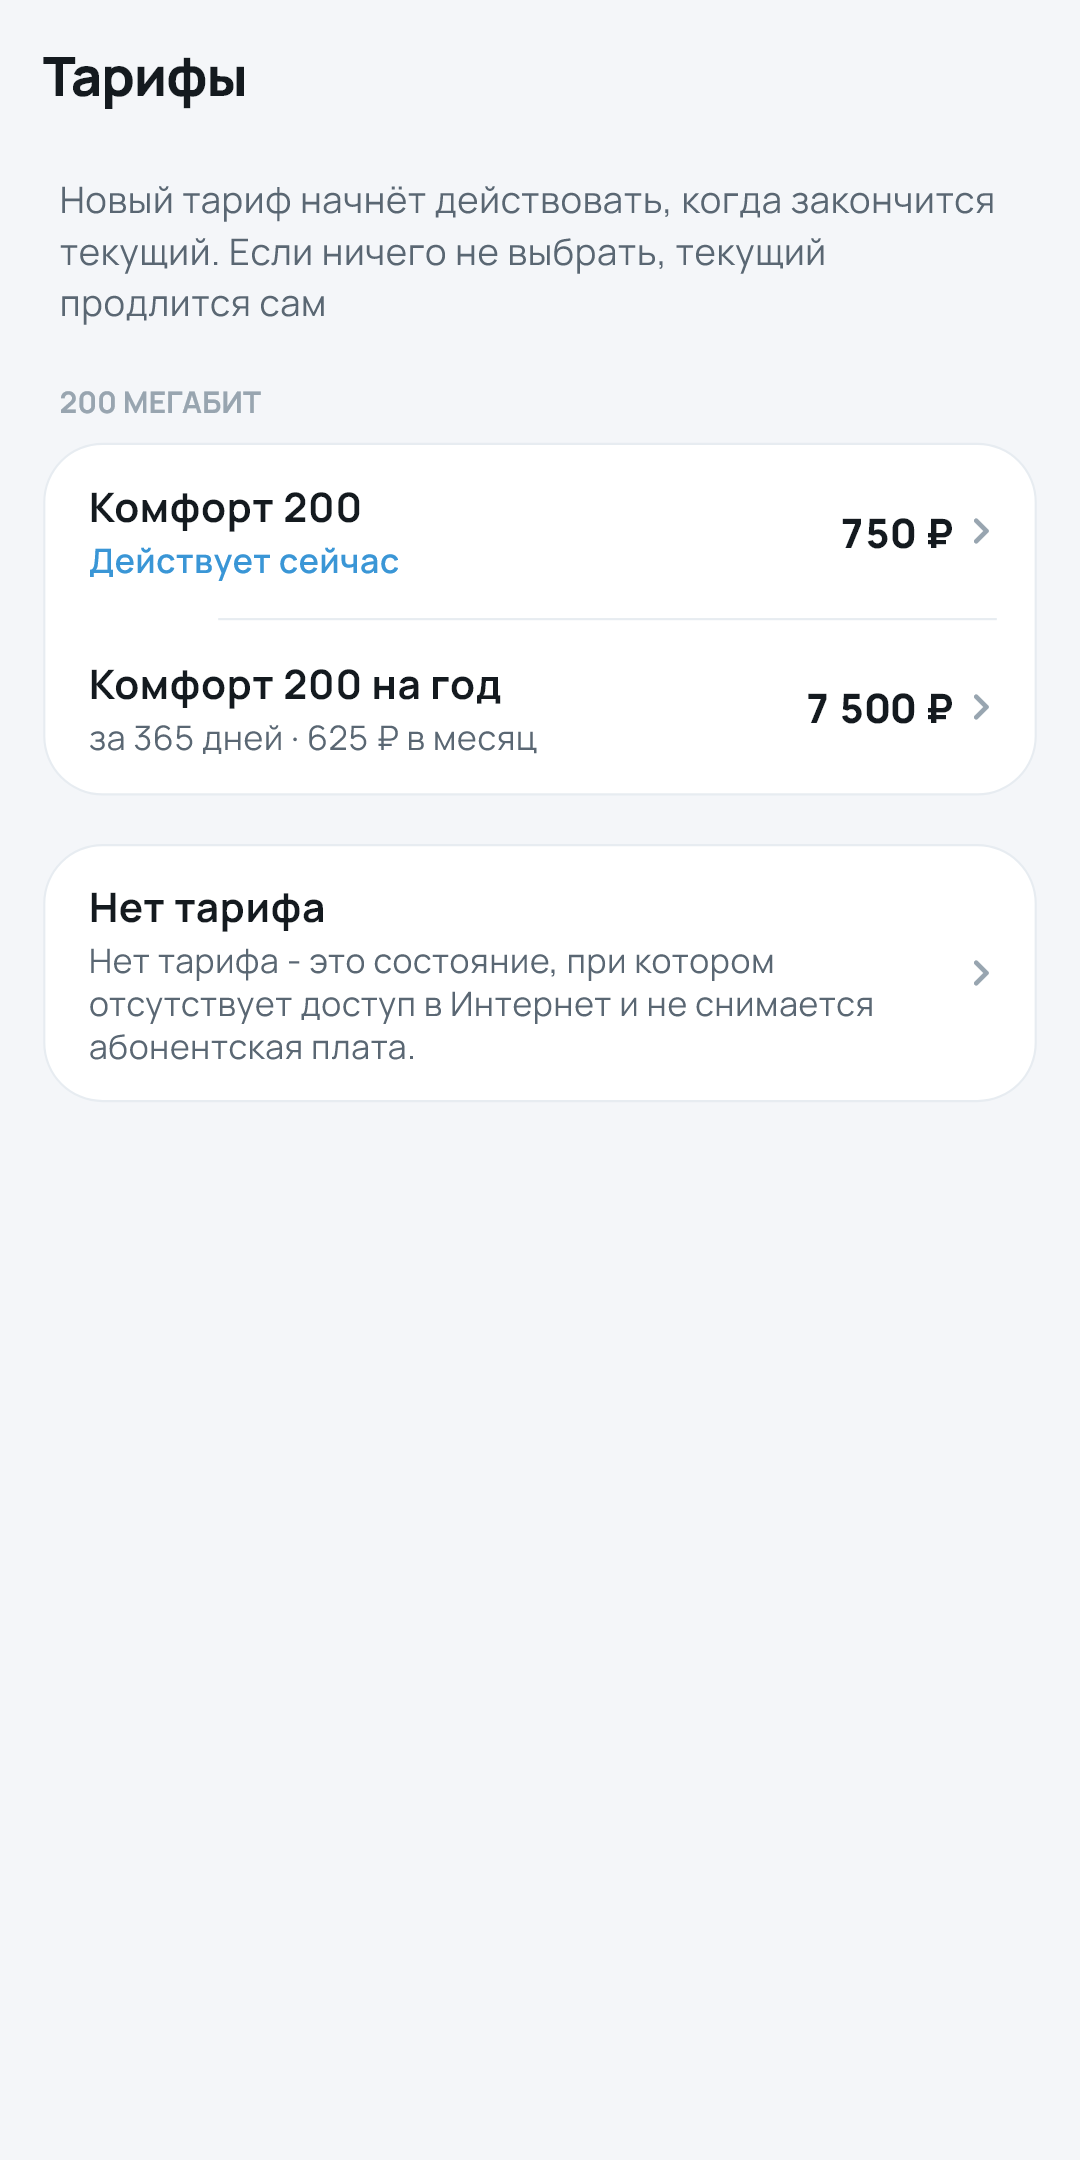
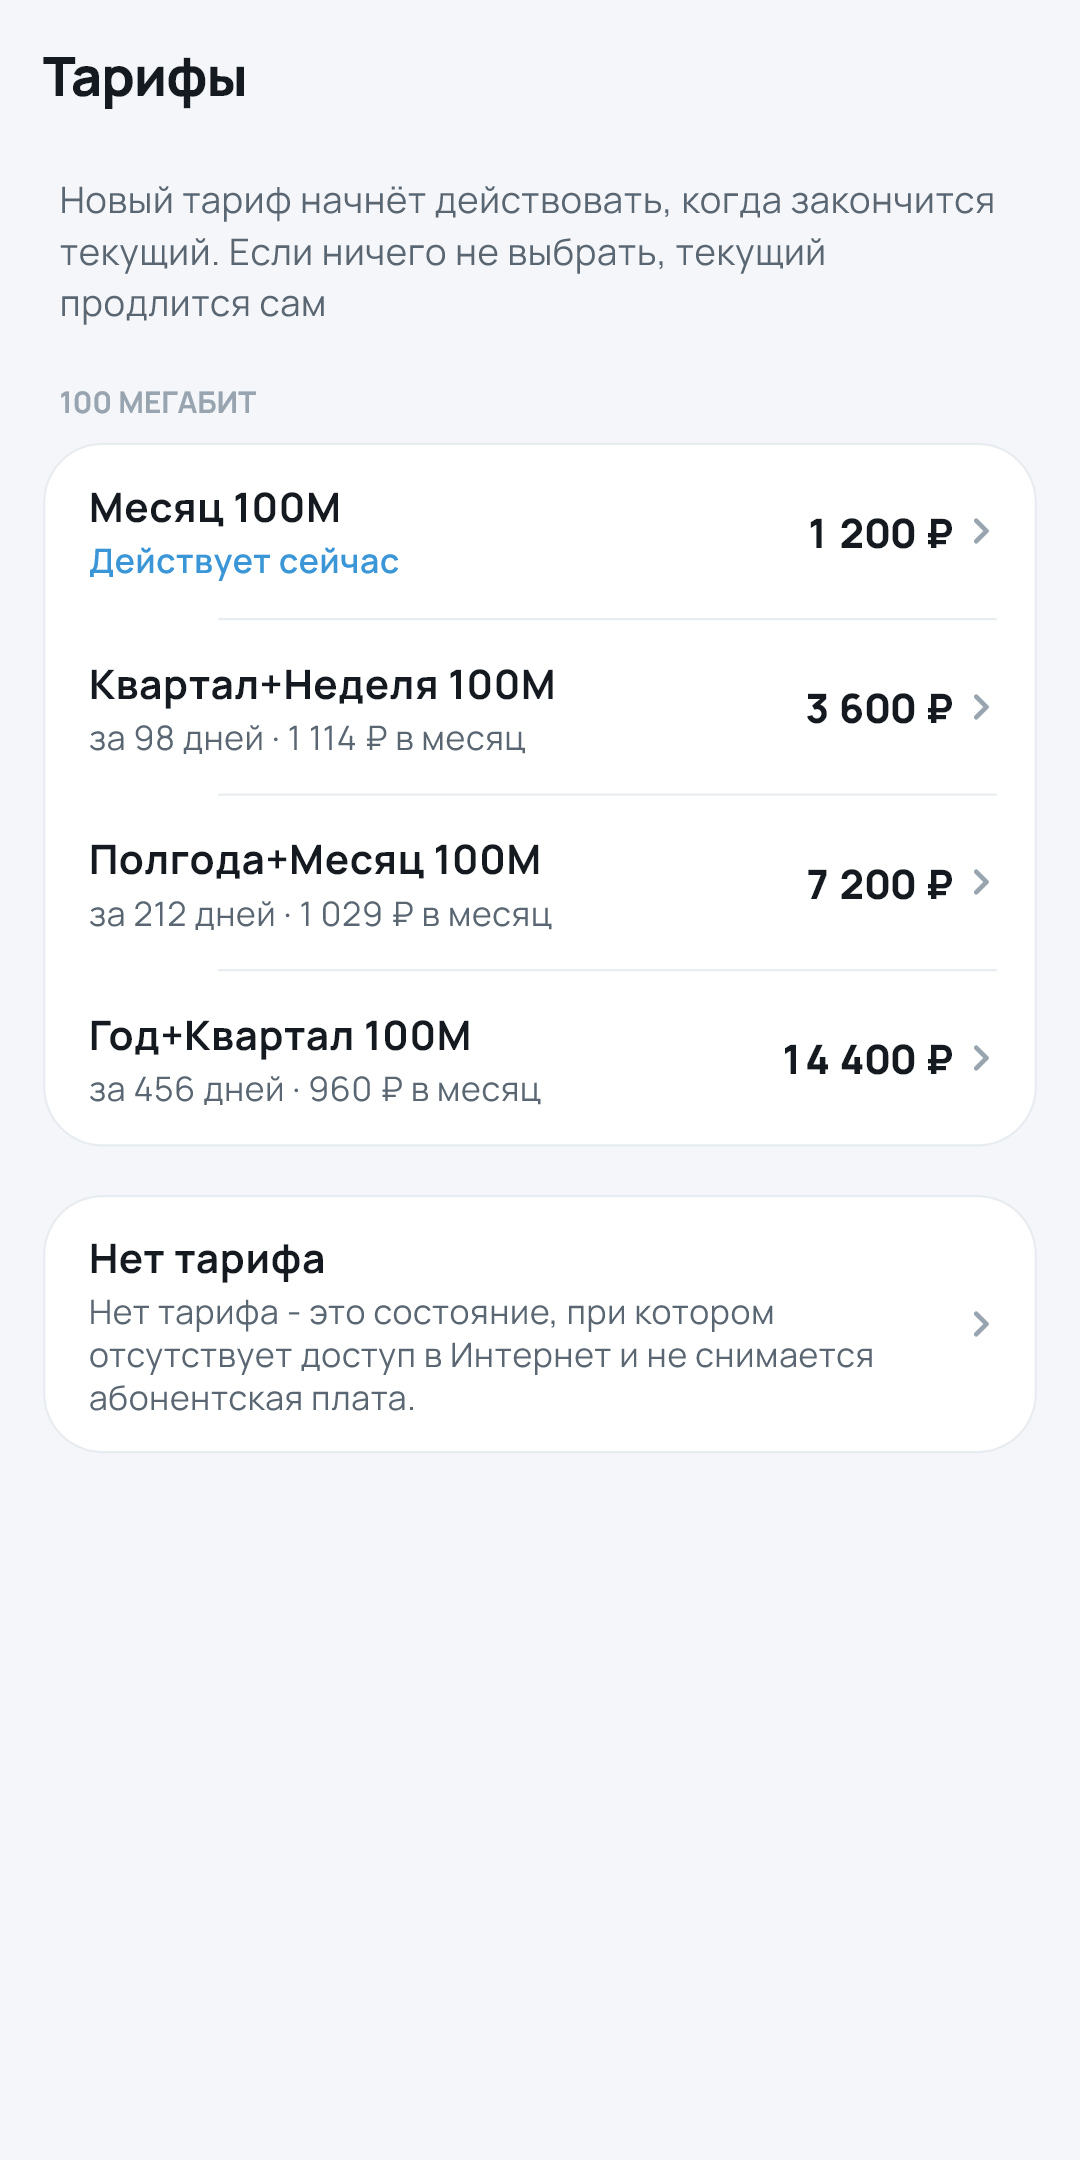
fix(demo): real tariffs, services and operations for store screenshots, pay sheet over home

diff --git a/app/lib/services/demo_mode.dart b/app/lib/services/demo_mode.dart
@@ -1,5 +1,6 @@
 import 'package:flutter/material.dart';
 import 'package:shared_preferences/shared_preferences.dart';
+import 'balance_store.dart';
 import 'cabinet_parser.dart';
 
 /// Сервис демонстрационного режима для красивых скриншотов в App Store и Google Play.
@@ -40,7 +41,7 @@ class DemoMode {
         balance: 1250.00,
         account: '123456',
         fullName: 'Иванов Иван Иванович',
-        tariff: 'Комфорт 200',
+        tariff: 'Месяц 100М',
         address: 'г. Первоуральск, пр. Ильича, д. 15, кв. 42',
         login: '123456',
         needsPassportData: false,
@@ -60,14 +61,15 @@ class DemoMode {
           ),
         ],
         rawHtml: '',
-        nextPaymentDate: DateTime(DateTime.now().year, DateTime.now().month + 1, 1),
-        nextCharge: 750,
+        nextPaymentDate: DateTime.now().add(const Duration(days: 18)),
+        nextCharge: 1200,
       );
 
+  // тарифы и описания - как на настоящей странице aaatarif
   static TariffCatalog get demoTariffs => const TariffCatalog(
-        current: 'Комфорт 200',
+        current: 'Месяц 100М',
         groups: [
-          TariffGroup(id: '1', name: '200 мегабит'),
+          TariffGroup(id: '18', name: '100 мегабит'),
           TariffGroup(
             id: '0',
             name: 'Нет тарифа',
@@ -75,22 +77,47 @@ class DemoMode {
           ),
         ],
         offers: {
-          '1': [
+          '18': [
             TariffOffer(
-              name: 'Комфорт 200',
-              price: 750,
+              name: 'Месяц 100М',
+              price: 1200,
               days: 30,
-              details: ['Скорость доступа - до 200 Мбит/сек'],
+              details: ['Скорость доступа - до 100 Мбит/сек'],
             ),
             TariffOffer(
-              name: 'Комфорт 200 на год',
-              price: 7500,
-              days: 365,
-              perMonth: 625,
+              name: 'Квартал+Неделя 100М',
+              price: 3600,
+              days: 98,
+              perMonth: 1114,
               details: [
-                'Стоимость в перерасчёте на месяц - 625 рублей',
-                'Экономия - 1500 руб.',
-                'Скорость доступа - до 200 Мбит/сек',
+                'В подарок - одна неделя бесплатно',
+                'Стоимость в перерасчёте на месяц - 1114 рублей',
+                'Экономия - 276 руб.',
+                'Скорость доступа - до 100 Мбит/сек',
+              ],
+            ),
+            TariffOffer(
+              name: 'Полгода+Месяц 100М',
+              price: 7200,
+              days: 212,
+              perMonth: 1029,
+              details: [
+                'В подарок - один месяц бесплатно',
+                'Стоимость в перерасчёте на месяц - 1029 рублей',
+                'Экономия - 1200 руб.',
+                'Скорость доступа - до 100 Мбит/сек',
+              ],
+            ),
+            TariffOffer(
+              name: 'Год+Квартал 100М',
+              price: 14400,
+              days: 456,
+              perMonth: 960,
+              details: [
+                'В подарок - один квартал бесплатно',
+                'Стоимость в перерасчёте на месяц - 960 рублей',
+                'Экономия - 3600 руб.',
+                'Скорость доступа - до 100 Мбит/сек',
               ],
             ),
           ],
@@ -114,66 +141,18 @@ class DemoMode {
         ],
       );
 
+  // биллинг отдаёт в услугах только действующий тариф, цена - из суммы к оплате
   static List<ServiceItem> get demoServices => [
-        ServiceItem(
-          name: 'Комфорт 200 (Безлимитный интернет 200 Мбит/с)',
-          cost: '750 ₽ / мес',
-          status: 'Активен',
-        ),
-        ServiceItem(
-          name: 'Интерактивное ТВ «Базовое» (150+ телеканалов)',
-          cost: 'Включено',
-          status: 'Активно',
-        ),
-        ServiceItem(
-          name: 'Умный домофон Интерра (видеокамера и архив)',
-          cost: 'Включено',
-          status: 'Активно',
-        ),
+        ServiceItem(name: 'Месяц 100М', cost: '${BalanceStore.format(1200)} / мес', status: ''),
       ];
 
+  // операции как в отчёте aaaotch: «оплата» и «активация услуги» с тарифом в комментарии
   static List<PaymentItem> get demoPayments => [
-        PaymentItem(
-          date: '04.11.2026 14:22',
-          amount: 750.0,
-          operation: 'СБП (Система быстрых платежей)',
-          comment: 'Зачислено моментально',
-          operator: 'СБП',
-        ),
-        PaymentItem(
-          date: '01.11.2026 00:00',
-          amount: -750.0,
-          operation: 'Абонентская плата (Комфорт 200)',
-          comment: 'Списание за ноябрь',
-          operator: 'SYSTEM',
-        ),
-        PaymentItem(
-          date: '25.10.2026 19:10',
-          amount: 750.0,
-          operation: 'Банковская карта (SberPay)',
-          comment: 'Автоплатёж',
-          operator: 'СберБанк',
-        ),
-        PaymentItem(
-          date: '01.10.2026 00:00',
-          amount: -750.0,
-          operation: 'Абонентская плата (Комфорт 200)',
-          comment: 'Списание за октябрь',
-          operator: 'SYSTEM',
-        ),
-        PaymentItem(
-          date: '20.09.2026 11:45',
-          amount: 1000.0,
-          operation: 'Система быстрых платежей',
-          comment: 'Пополнение счёта',
-          operator: 'СБП',
-        ),
-        PaymentItem(
-          date: '01.09.2026 00:00',
-          amount: -750.0,
-          operation: 'Абонентская плата (Комфорт 200)',
-          comment: 'Списание за сентябрь',
-          operator: 'SYSTEM',
-        ),
+        PaymentItem(date: '16-11-2026 00:03', amount: -1200.0, operation: 'активация услуги', comment: 'Месяц 100М'),
+        PaymentItem(date: '15-11-2026 19:42', amount: 1200.0, operation: 'оплата', comment: ''),
+        PaymentItem(date: '17-10-2026 00:02', amount: -1200.0, operation: 'активация услуги', comment: 'Месяц 100М'),
+        PaymentItem(date: '14-10-2026 12:10', amount: 1500.0, operation: 'оплата', comment: ''),
+        PaymentItem(date: '17-09-2026 00:04', amount: -1200.0, operation: 'активация услуги', comment: 'Месяц 100М'),
+        PaymentItem(date: '16-09-2026 21:35', amount: 1200.0, operation: 'оплата', comment: ''),
       ];
 }

diff --git a/app/tool/shots.dart b/app/tool/shots.dart
@@ -16,7 +16,6 @@ import 'package:lk_interra/screens/cabinet_screen.dart';
 import 'package:lk_interra/screens/settings_screen.dart';
 import 'package:lk_interra/screens/tariffs_screen.dart';
 import 'package:lk_interra/screens/block_screen.dart';
-import 'package:lk_interra/widgets/payment_modal.dart';
 
 Future<void> _loadFont(String family, List<String> paths) async {
   final loader = FontLoader(family);
@@ -111,13 +110,7 @@ void main() {
         }
       }
 
-      await tester.tap(find.text('Лицевой счёт 123456'));
-      await frames();
-      await snap(tester, key, '1_accounts_$tag');
-      await tester.tap(find.text('Иванов И.И. (Дача)'));
-      await frames();
-      await snap(tester, key, '1_home_restricted_$tag');
-
+      // вкладки снимаем на основном договоре, до переключения на должника
       const tabs = {'Услуги': '2_services', 'ТВ': '3_tv', 'История': '4_history'};
       for (final e in tabs.entries) {
         final finder = find.text(e.key);
@@ -128,6 +121,15 @@ void main() {
         await tester.pump();
         await snap(tester, key, '${e.value}_$tag');
       }
+      await tester.tap(find.text('Главная').last);
+      await frames();
+
+      await tester.tap(find.text('Лицевой счёт 123456'));
+      await frames();
+      await snap(tester, key, '1_accounts_$tag');
+      await tester.tap(find.text('Иванов И.И. (Дача)'));
+      await frames();
+      await snap(tester, key, '1_home_restricted_$tag');
       await tester.pumpWidget(const SizedBox());
     });
 
@@ -136,7 +138,7 @@ void main() {
 
       final key = await open(tester, b, const TariffsScreen());
       await snap(tester, key, '6_tariffs_$tag');
-      await tester.tap(find.text('Комфорт 200 на год'));
+      await tester.tap(find.text('Год+Квартал 100М'));
       for (var i = 0; i < 20; i++) {
         await tester.pump(const Duration(milliseconds: 50));
       }
@@ -160,25 +162,14 @@ void main() {
         }
       }
 
-      final key = await open(
-          tester,
-          b,
-          Builder(
-            builder: (c) => Scaffold(
-              body: Center(
-                child: TextButton(
-                  onPressed: () => PaymentModal.show(c, account: '123456'),
-                  child: const Text('open'),
-                ),
-              ),
-            ),
-          ));
-      await tester.tap(find.text('open'));
+      // шторка поверх главной, как её видит абонент
+      final key = await open(tester, b, const CabinetScreen());
+      await tester.tap(find.text('Пополнить'));
       await frames();
       await snap(tester, key, '8_pay_$tag');
       await tester.tap(find.text('Банковская карта, SberPay, T-Pay, СБП'));
       await frames();
-      await tester.enterText(find.byType(TextField), '1500');
+      await tester.enterText(find.byType(TextField), '1200');
       await frames();
       await snap(tester, key, '8_pay_amount_$tag');
       await tester.pumpWidget(const SizedBox());

diff --git a/app/test/demo_mode_test.dart b/app/test/demo_mode_test.dart
@@ -34,16 +34,15 @@ void main() {
       expect(data.balance, 1250.0);
       expect(data.account, '123456');
       expect(data.fullName, 'Иванов Иван Иванович');
-      expect(data.tariff, 'Комфорт 200');
+      expect(data.tariff, 'Месяц 100М');
       expect(data.needsPassportData, false);
       expect(data.address.isNotEmpty, true);
     });
 
-    test('demoServices contains active tariff, TV and intercom', () {
+    test('demoServices - только действующий тариф, как отдаёт биллинг', () {
       final services = DemoMode.demoServices;
-      expect(services.length, 3);
-      expect(services[0].name.contains('Комфорт 200'), true);
-      expect(services[0].status, 'Активен');
+      expect(services.single.name, 'Месяц 100М');
+      expect(services.single.cost, endsWith('/ мес'));
     });
 
     test('demoPayments contains clean positive and negative balance operations', () {

diff --git a/app/lib/screens/cabinet_screen.dart b/app/lib/screens/cabinet_screen.dart
@@ -276,11 +276,11 @@ class _CabinetScreenState extends State<CabinetScreen> with WidgetsBindingObserv
           balance: acc.accountId == '654321' ? -150.00 : 1250.00,
           account: acc.accountId,
           fullName: acc.name,
-          tariff: acc.accountId == '654321' ? 'Дачный 50' : 'Комфорт 200',
+          tariff: 'Месяц 100М',
           address: acc.address,
           login: acc.accountId,
           isRestricted: acc.accountId == '654321',
-          recommendedPayment: acc.accountId == '654321' ? '160 ₽' : null,
+          recommendedPayment: acc.accountId == '654321' ? '1 350 ₽' : null,
           accounts: _data!.accounts,
           rawHtml: '',
         );
